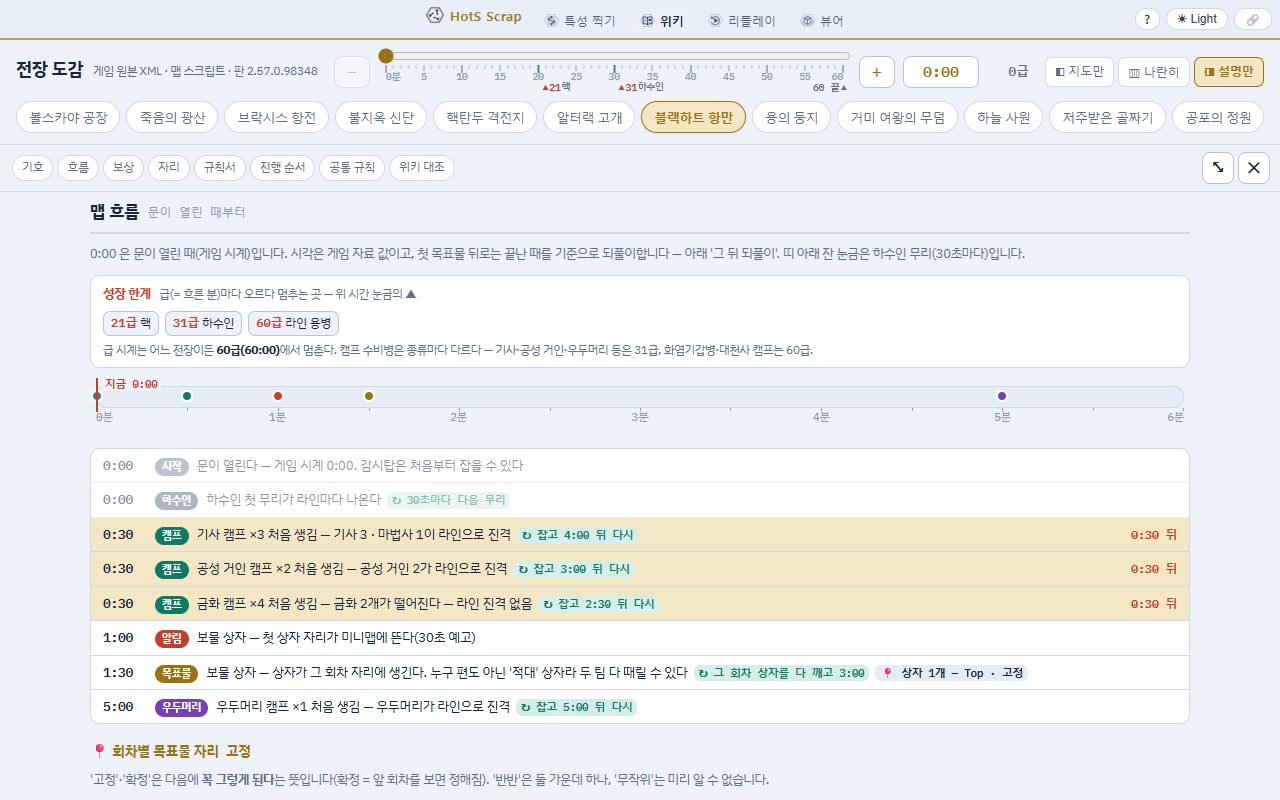
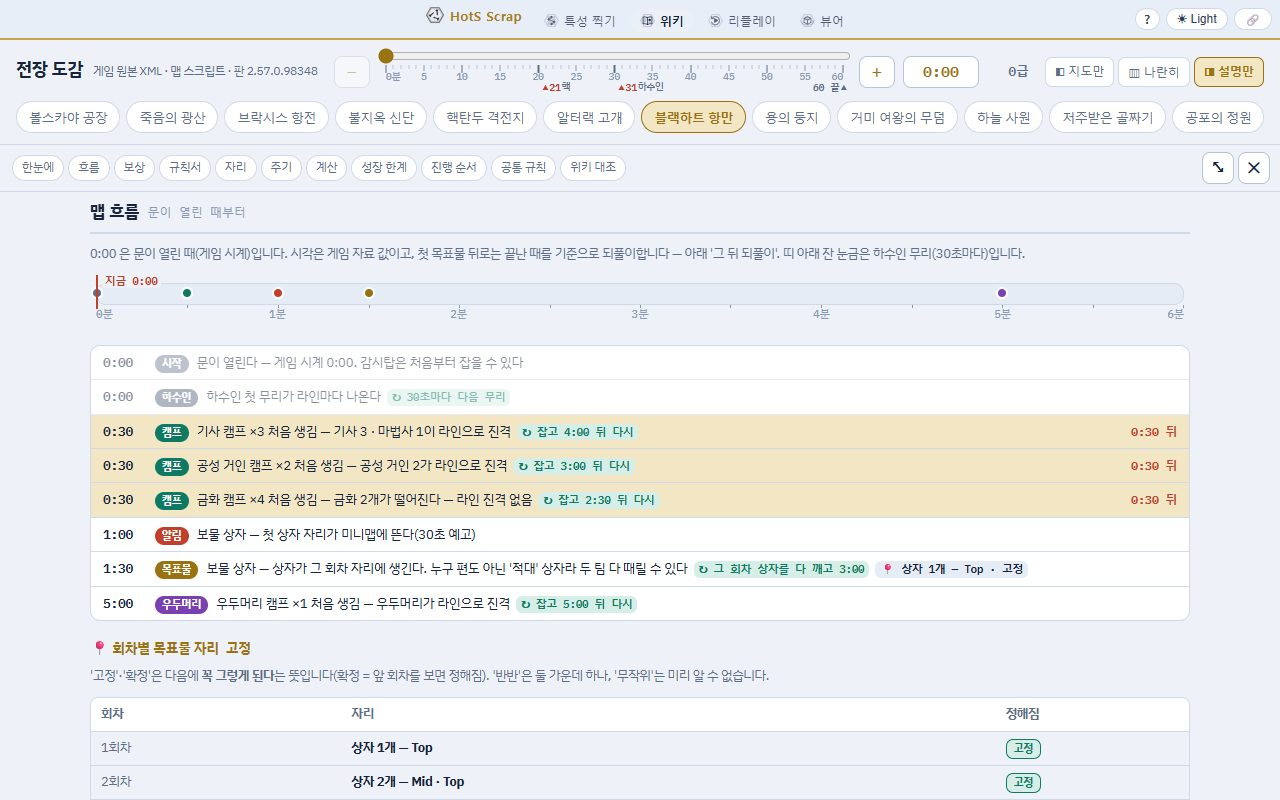
전장 도감: 보상이 노리는 곳·나오는 곳 규칙 + 설명을 기본 → 자세히 → 깊이 차례로
- 사람이 고르지 않는 보상의 기준(맵 스크립트): 블랙하트·하늘 사원 마을 차례, 하나무라는 더 멀쩡한 요새부터,
  영원의 전쟁터 이긴 불멸자는 적 바깥 요새가 더 멀쩡한 라인으로, 알터랙 기병은 핵 앞에서, 공포는 셋째 씨앗 자리에서,
  징벌자는 신단에서 가장 가까운 라인으로 — 보상 카드의 '노리는 곳 · 나오는 곳'
- 사이드바: 기본(한눈에 · 맵 흐름 · 보상) → 자세히(규칙서 · 자리 · 주기) → 깊이(계산 · 성장 한계 · 진행 순서 · 위키 대조)
- '한눈에' 상자: 하는 일 · 받는 것 · 노리는 곳 · 첫 목표물 · 다음 회차 · 1회차 자리
- 사용법 단락 문구와 사진 다시 찍음

Changed region(s): [[0.0625, 0.3438, 0.9375, 1.0], [0.0, 0.1875, 0.4688, 0.2188]]

diff --git a/site/maps/index.html b/site/maps/index.html
@@ -512,6 +512,17 @@ details.lvt summary { cursor:pointer; color:var(--dim); width:max-content; max-w
 .nxo { margin:5px 2px 0; font-size:12px; color:var(--dim); line-height:1.5; }
 .fp.fpl { color:var(--fg); background:var(--shade); }
 .pgnote { margin:5px 2px 0; font-size:11px; color:var(--dim); }
+/* ── 한눈에 · 단계 띠 · 노리는 곳 */
+.glance { border:1px solid var(--gold); border-radius:10px; background:var(--gold-soft); padding:9px 12px; margin:6px 0 10px; display:grid; gap:4px; }
+.glh { font-size:11.5px; font-weight:700; color:var(--gold); letter-spacing:.4px; }
+.gl { display:grid; grid-template-columns:72px minmax(0,1fr); gap:8px; font-size:13px; line-height:1.5; align-items:baseline; }
+.glk { font-size:11.5px; font-weight:700; color:var(--dim); }
+.tier { display:flex; align-items:baseline; gap:8px; margin:22px 0 2px; padding:5px 10px; border-radius:8px; background:var(--shade); font-size:12px; color:var(--dim); }
+.tier:first-child { margin-top:12px; }
+.tier b { color:var(--fg); font-size:12.5px; letter-spacing:.3px; }
+.rwf.rwgo > span:last-child { line-height:1.55; }
+.nxb.nx-man { color:var(--order); }
+@container (max-width:420px) { .gl { grid-template-columns:1fr; gap:0; } }
 
 </style>
 
@@ -814,7 +825,7 @@ function 규칙절(m) {
       + `<div class="tnote">위 시간 칸에 분:초를 넣거나 손잡이를 움직이면 바뀝니다 · 0:00 = 문이 열린 때(게임 시계)</div></div>`
     : '';
   return `<h2 id="s-규칙">규칙서<span class="cnt">하면 → 된다</span></h2>`
-    + `<p class="note">${esc(BOOK.말)}</p>` + 상자 + 포격상자(m.키) + 몸;
+    + `<p class="note">${esc(BOOK.말)}</p>` + 상자 + 몸;
 }
 
 /* ── 한 전장 그리기 */
@@ -919,13 +930,20 @@ function 설명그리기() {
     + `</details>` : '';
 
   document.getElementById('body').innerHTML = `
-    <h2 id="s-개요">${esc(m.이름)}<span class="cnt">지도 기호</span></h2>
+    ${단계띠('기본', '처음 보는 사람용 — 무엇을 하면 무엇을 받는지, 언제 · 어디서')}
+    <h2 id="s-개요">${esc(m.이름)}<span class="cnt">한눈에 · 지도 기호</span></h2>
+    ${한눈에(m)}
     ${배치범례(m.키)}
     <details class="common"><summary>맵 정보</summary><div class="statbox">${옆}</div></details>
     ${흐름절(m)}
     ${보상절(m)}
-    ${자리절(m)}
+    ${단계띠('자세히', '규칙을 하나하나 — 하면 → 된다 · 자리 · 되풀이 간격')}
     ${규칙절(m)}
+    ${자리절(m)}
+    ${주기절(m)}
+    ${단계띠('깊이', '수치를 파고들 때 — 피해 계산 · 성장 한계 · 단계별 진행 · 위키와 맞대기')}
+    ${계산절(m)}
+    ${한계절h(m)}
     ${순서}${공통규칙}
     ${기믹 ? `<h2>기믹<span class="cnt">게임이 적어 둔 설명</span></h2>${기믹}` : ''}
     ${대조}
@@ -1167,8 +1185,8 @@ document.getElementById('mapkey').addEventListener('click', e => {
 });
 
 /* 사이드바 바로가기 */
-const 바로 = [['s-개요', '기호'], ['s-흐름', '흐름'], ['s-보상', '보상'], ['s-자리', '자리'], ['s-규칙', '규칙서'], ['s-순서', '진행 순서'], ['s-공통', '공통 규칙'],
-             ['s-위키', '위키 대조']];
+const 바로 = [['s-개요', '한눈에'], ['s-흐름', '흐름'], ['s-보상', '보상'], ['s-규칙', '규칙서'], ['s-자리', '자리'], ['s-주기', '주기'],
+             ['s-계산', '계산'], ['s-한계', '성장 한계'], ['s-순서', '진행 순서'], ['s-공통', '공통 규칙'], ['s-위키', '위키 대조']];
 function 바로가기() {
   document.getElementById('jump').innerHTML = 바로.filter(([id]) => document.getElementById(id))
     .map(([id, t]) => `<a href="#${id}" data-to="${id}">${t}</a>`).join('');
@@ -1808,13 +1826,11 @@ function 흐름절(m) {
     + (e.다시 ? ` <span class="fre" data-re="${e.다시}" data-first="${e.처음}"></span>` : '') + `</span></li>`).join('');
   return `<h2 id="s-흐름">맵 흐름<span class="cnt">문이 열린 때부터</span></h2>`
     + `<p class="note">0:00 은 문이 열린 때(게임 시계)입니다. 시각은 게임 자료 값이고, 첫 목표물 뒤로는 끝난 때를 기준으로 되풀이합니다 — 아래 '그 뒤 되풀이'. 띠 아래 잔 눈금은 하수인 무리(30초마다)입니다.</p>`
-    + 한계절(m.키)
     + `<div class="ftl"><div class="ftl-row">${물결}${표}</div><div class="ftl-axis">${눈.join('')}</div>`
     + `<div class="ftl-now" id="ftlnow"><span></span></div></div>`
     + `<ol class="flist">${줄}</ol>`
     + 자리상자(m.키)
-    + `<div class="frep2"><b>↻ 그 뒤 되풀이</b>${F.반복 ? `<p>${esc(F.반복)}</p>` : ''}<ul>${되}</ul></div>`
-    + 주기모음(m, F);
+    + `<div class="frep2"><b>↻ 그 뒤 되풀이</b>${F.반복 ? `<p>${esc(F.반복)}</p>` : ''}<ul>${되}</ul></div>`;
 }
 function 흐름갱신() {
   한계갱신();
@@ -2490,17 +2506,73 @@ const 보상표 = {
     }];
   },
 };
-function 보상카드(c) {
+/* 보상이 어디로 가나 · 무엇을 먼저 치나 — 사람이 고르지 않는 보상은 게임이 정한 기준을 따른다(맵 스크립트에서 읽음).
+   [이름, 내용, 정해짐] — 정해짐: 고정(늘 같음) · 규칙(그때 상태로 정해짐) · 무작위 · 사람(영웅이 직접 고름) */
+const 향함표 = {
+  blackheartsbay: [
+    ['노리는 차례', '적 바깥 요새 마을 Mid → Top → Bot, 그다음 안쪽 성채 마을 Mid → Top → Bot, 다 무너지면 핵', '고정'],
+    ['한 마을 안에서', '요새에서 10 넘게 떨어진 바깥 건물(포탑·관문) → 요새 둘레 건물 → 요새 차례. 같은 단계 안에서는 무작위, 이미 겨눈 건물은 뺀다', '규칙']],
+  hanamura: [
+    ['노리는 마을', '적 바깥 요새 둘 가운데 건물 생명이 더 많이 남은 쪽(같으면 무작위) → 둘 다 무너지면 안쪽 성채 둘 가운데 더 멀쩡한 쪽 → 그다음 핵', '규칙'],
+    ['한 마을 안에서', '포탑 → 관문 → 치유의 샘 → 요새·성채 차례. 같은 종류 안에서는 무작위 — 바로 앞에 쏜 건물과 이미 날아가는 포탄으로 깨질 건물은 뺀다', '규칙']],
+  skytemple: [
+    ['노리는 마을', '사원마다 자기 라인 요새부터 — Top 사원: Top → Mid → Bot 요새 · Mid 사원: Mid → Top → Bot · Bot 사원: Bot → Mid → Top. 요새가 다 무너지면 성채를 같은 차례로, 그다음 핵', '고정'],
+    ['한 마을 안에서', '요새에서 10 넘게 떨어진 바깥 건물 가운데 그 사원에 가장 가까운 것 → 요새 둘레(요새 포함) 가운데 가장 가까운 것', '고정']],
+  battlefieldofeternity: [
+    ['가는 라인', '적 바깥 요새가 더 멀쩡한 라인 — 한쪽 요새가 이미 무너졌으면 요새가 서 있는 라인, 둘 다 서 있으면 마을 건물 생명 합(치유의 샘 빼고)이 더 많은 라인, 같으면 무작위. 바깥이 다 무너졌으면 안쪽 성채끼리 같은 셈', '규칙'],
+    ['출발', '한가운데 준비 자리에서 15초 준비한 뒤', '고정']],
+  tombofthespiderqueen: [['나오는 곳', '바친 팀 본진 앞 — Top · Mid · Bot 라인마다 하나씩 나와 그 라인을 따라 간다', '고정']],
+  alteracpass: [['나오는 곳', '그 팀 핵 바로 앞에서 셋이 나와 Top · Mid · Bot 라인으로 하나씩 간다', '고정']],
+  gardenofterror: [['나오는 곳', '셋째 씨앗을 먹은 바로 그 자리에서 셋이 솟아 각자 Top · Mid · Bot 라인으로 걸어간다', '고정']],
+  infernalshrines: [['나오는 곳', '켜졌던 신단 바로 옆에서 나와 그 신단에서 가장 가까운 라인을 따라 간다', '고정']],
+  hauntedmines: [['나오는 곳', '광산이 열릴 때 정해진 라인 자리에 미리 놓인다 — 1회차 블루팀 Top · 레드팀 Bot, 그 뒤 번갈아', '고정']],
+  braxisholdout: [['나오는 곳', '그 회차 저그 우리에서 나와 그 라인을 따라 적 본진으로 — 우리는 회차마다 번갈아', '고정']],
+  cursedhollow: [['닿는 곳', '적 포탑·요새·성채 전부와 적 하수인 전부 — 고르는 것 없음(핵은 그대로)', '고정']],
+  towersofdoom: [['노리는 곳', '늘 적 핵 — 다른 건물은 맞지 않는다', '고정']],
+  dragonshire: [['가는 곳', '영웅이 직접 타고 움직인다', '사람']],
+  volskaya: [['가는 곳', '조종사 · 사수 영웅이 직접 탄다', '사람']],
+  warheadjunction: [['떨어지는 곳', '핵을 든 영웅이 사거리 14 안 땅을 찍는다', '사람']],
+};
+const 향함색 = { 고정: 'fix', 규칙: 'half', 무작위: 'rnd', 사람: 'man' };
+
+/* 한눈에 — 처음 보는 사람이 맨 먼저 알아야 할 것: 무엇을 하면 무엇을 받나 · 언제 · 어디서 */
+function 한눈에(m) {
+  const 카드 = 보상표[m.키] ? 보상표[m.키]()[0] : null;
+  const F = ((BOOK.전장 || {})[m.키] || {}).흐름;
+  if (!카드 || !F) return '';
+  const 첫목 = F.사건.find(e => e.갈래 === '목표'), 목되 = (F.되풀이 || []).find(e => e.갈래 === '목표' && /^다음/.test(둘로(e.말)[0]));
+  const 자 = 자리규칙[m.키], 향 = 향함표[m.키];
+  const 줄 = [['하는 일', 카드.얻기], ['받는 것', 카드.보상], 향 ? [향[0][0], 향[0][1]] : null,
+             첫목 ? ['첫 목표물', `${시각글(첫목.때)} — ${둘로(첫목.말)[1] || 첫목.말}`] : null,
+             목되 ? ['다음 회차', 둘로(목되.말)[1].split(' · ')[0]] : null,
+             자 ? ['1회차 자리', `${자[2][0][1]} (${자[2][0][2]})`] : null].filter(r => r && r[1]);
+  return `<div class="glance"><div class="glh">한눈에</div>${줄.map(([k, v]) => `<div class="gl"><span class="glk">${esc(k)}</span><span>${esc(v)}</span></div>`).join('')}</div>`;
+}
+/* 단계 띠 — 기본 → 자세히 → 깊이. 아래로 갈수록 깊은 내용 */
+const 단계띠 = (말, 풀이) => `<div class="tier"><b>${말}</b><span>${풀이}</span></div>`;
+function 주기절(m) {
+  const F = ((BOOK.전장 || {})[m.키] || {}).흐름;
+  return F ? `<h2 id="s-주기">주기 모음<span class="cnt">되풀이되는 것의 간격</span></h2>` + 주기모음(m, F) : '';
+}
+function 한계절h(m) { return `<h2 id="s-한계">성장 한계<span class="cnt">급마다 오르다 멈추는 곳</span></h2>` + 한계절(m.키); }
+function 계산절(m) {
+  const 상자 = 포격상자(m.키);
+  return 상자 ? `<h2 id="s-계산">목표물 공격 계산<span class="cnt">시간에 따라</span></h2>`
+    + `<p class="note">위 시간(⏱) 기준으로 목표물이 건물에 넣는 피해와, 시간에 따라 몸이 얼마나 자라는지(급별 막대·표)를 셈합니다.</p>` + 상자 : '';
+}
+function 보상카드(c, 향) {
   return `<div class="rw"><div class="rwh"><span class="rwi" aria-hidden="true">${c.아이}</span><b>${esc(c.이름)}</b></div>`
     + `<div class="rwflow">${c.얻기 ? `<div class="rwf"><span class="rwk">얻는 법</span><span>${esc(c.얻기)}</span></div>` : ''}`
-    + `<div class="rwf"><span class="rwk">보상</span><span>${esc(c.보상)}</span></div></div>`
+    + `<div class="rwf"><span class="rwk">보상</span><span>${esc(c.보상)}</span></div>`
+    + (향 || []).map(([k, v, s]) => `<div class="rwf rwgo"><span class="rwk">${esc(k)}</span><span>${esc(v)} <span class="nxb nx-${향함색[s]}">${esc(s)}</span></span></div>`).join('')
+    + `</div>`
     + (c.효과 && c.효과.length ? `<div class="rwe">${c.효과.map(([k, v]) => `<div class="re"><span class="rek">${esc(k)}</span><span class="rev">${v}</span></div>`).join('')}</div>` : '')
     + (c.표 || []).map(t => `<div class="rtb"><div class="rtt">${esc(t.제목)}</div><div class="tbl"><table class="wt rwt"><thead><tr>${t.머리.map(h => `<th>${esc(h)}</th>`).join('')}</tr></thead><tbody>`
       + t.줄.map((r, i) => `<tr${i === t.지금 ? ' class="now"' : ''}>${r.map((v, j) => `<td${j ? ' class="mono"' : ''}>${esc(v)}</td>`).join('')}</tr>`).join('')
       + `</tbody></table></div>${t.말 ? `<div class="rtn">${esc(t.말)}</div>` : ''}</div>`).join('')
     + (c.근거 ? `<div class="dimid itsrc">근거 · ${esc(c.근거)}</div>` : '') + `</div>`;
 }
-function 보상속(키) { return (보상표[키] ? 보상표[키]() : []).map(보상카드).join(''); }
+function 보상속(키) { return (보상표[키] ? 보상표[키]() : []).map((c, i) => 보상카드(c, i ? null : 향함표[키])).join(''); }   // 노리는 곳은 첫 카드(목표물 보상)에
 function 보상절(m) {
   if (!보상표[m.키]) return '';
   return `<h2 id="s-보상">보상과 효과<span class="cnt" id="rwdt"></span></h2>`

diff --git a/site/guide/index.html b/site/guide/index.html
@@ -370,13 +370,13 @@
       <li><b>성장 한계 ▲</b> — 이 전장에서 무엇이 몇 급에서 더 안 자라는지.</li>
       <li><b>기호</b> — 지도 아이콘의 뜻. 줄을 누르면 지도에서 그 자리가 깜빡입니다.</li>
       <li><b>▶ 핵 공격</b> — 이 전장 핵의 특수 공격 범위를 시간 차례로 지도에 보입니다.</li>
-      <li><b>바로가기</b> — 흐름 · 보상 · 자리 · 규칙서 · 진행 순서 · 위키 대조.</li>
+      <li><b>바로가기</b> — 설명은 <b>기본 → 자세히 → 깊이</b> 차례로 놓여 있습니다. 처음이면 위에서부터, 수치를 볼 때는 계산 · 성장 한계로.</li>
+      <li><b>한눈에</b> — 무엇을 하면 무엇을 받는지, 보상이 노리는 곳, 첫 목표물 시각과 1회차 자리.</li>
     </ol>
   </div>
   <div class="step">
     <figure class="shot" data-shot="maps-flow"></figure>
     <ol class="marks" data-shot="maps-flow">
-      <li><b>성장 한계</b> — 이미 멈춘 것은 흐리게 보입니다.</li>
       <li><b>맵 흐름 띠</b> — 문이 열린 때(0:00)부터 일어나는 일과 지금 시각.</li>
       <li><b>차례 목록</b> — 되풀이되는 것은 <b>↻ 간격</b>, 첫 목표물에는 <b>📍 1회차 자리</b>가 붙습니다.</li>
     </ol>
@@ -388,7 +388,7 @@
       <li><b>겹침 규칙</b> — 같은 자리가 다시 안 나오는 조건.</li>
     </ol>
   </div>
-  <p class="tip">더 내려가면 <b>보상과 효과</b>(지금 값 · 처음보다 · 지난 급보다), <b>규칙서</b>(하면 → 된다 · 목표물 공격 계산), <b>진행 순서</b>, <b>위키와 대조</b>가 이어집니다. 숫자는 모두 게임 원본 자료에서 셈한 값입니다.</p>
+  <p class="tip">흐름 아래는 <b>보상과 효과</b>(지금 값 · 처음보다 · 지난 급보다, 보상이 노리는 곳)입니다. 그 아래 <b>자세히</b>(규칙서 · 자리 · 주기 모음)와 <b>깊이</b>(목표물 공격 계산 · 성장 한계 · 진행 순서 · 위키와 대조)가 이어집니다. 숫자는 모두 게임 원본 자료에서 셈한 값입니다.</p>
 
   <!-- ───────────────────────── 패치 기록 ───────────────────────── -->
   <h2 id="patch">패치 기록 <small>공식 한글 노트 · 번역 · 게임 데이터 변경점</small></h2>

diff --git a/tools/guide_shots.py b/tools/guide_shots.py
@@ -161,9 +161,9 @@ SHOTS = [
 
     # 전장 도감 — 흐름·자리 사진은 회차 자리가 다 정해진 블랙하트로, 설명을 넓게 펴서 찍는다
     dict(id="maps", url="maps/",
-         marks=["#picker", ["#t", "#tmin"], "#rstops", "#keybtn", "#atk", "#jump"]),
+         marks=["#picker", ["#t", "#tmin"], "#rstops", "#keybtn", "#atk", "#jump", "#body .glance"]),
     dict(id="maps-flow", url="maps/", do=[maps_open("blackheartsbay"), scroll_into("#s-흐름", "start", -6)],
-         marks=[".lim", ".ftl", ".flist"]),
+         marks=[".ftl", ".flist"]),
     dict(id="maps-place", url="maps/", do=[maps_open("blackheartsbay"), scroll_into("#s-자리차례", "start", -6)],
          marks=[".nxt", ".nxo"]),
 
